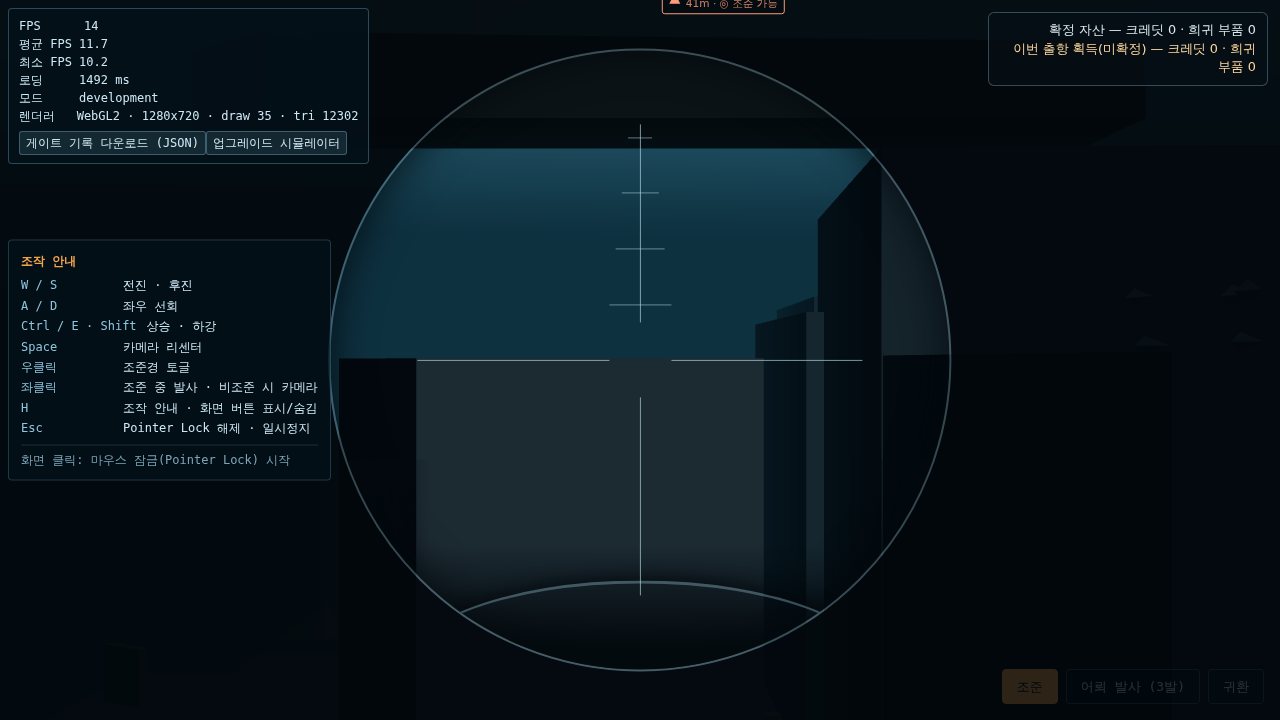
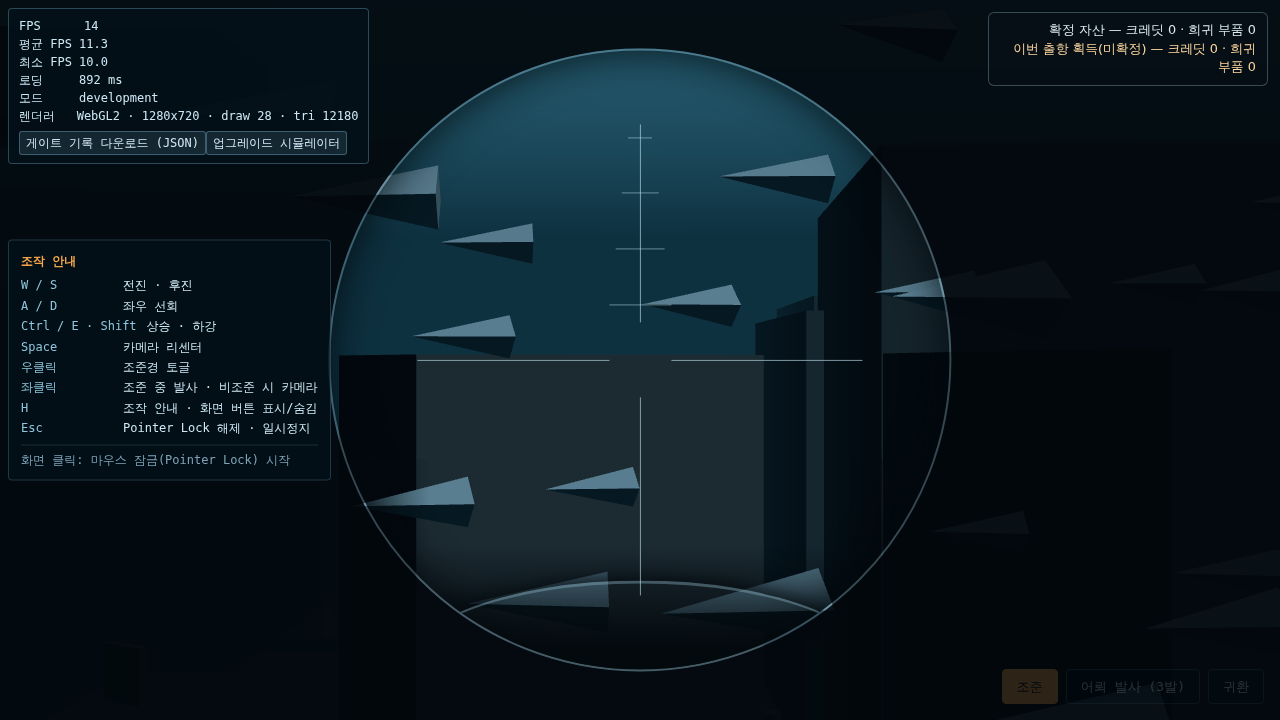
docs: [FACTION] 조준 3구간 회귀 실측값 반영 · salvage 회수 미실측 명기
- 조준 회귀를 실측 수치로 교체: periscope(8.12)/cruise(3.95)/deep(-3.02),
  카메라=aimCameraSocket 오차 0, 소켓 forwardY=sin(aimPitch) 일치,
  조준 유지 중 ΔY 0, 콘솔 오류 0 — 3구간 전부 (10/10)
- salvage 3종 회수 보상(125+희귀 1) 브라우저 실측은 재장전 대기로 미완주.
  결정적 검증이 덮는다는 점과 함께 '브라우저 미확인'으로 명기
- 스크린샷 목록 기록

Claude-Session: https://claude.ai/code/session_01FPAWf9jqEn7a62sYnofcNG

diff --git a/docs/SPRINT_A_ACCEPTANCE.md b/docs/SPRINT_A_ACCEPTANCE.md
@@ -402,15 +402,20 @@
 | verify:hud | 34/34 | ✅ **34/34** |
 | verify:sprint-a | 자동 전 항목 | ✅ 자동 전 항목 |
 
-### 조준 회귀 (production 브라우저)
+### 조준 회귀 (production 브라우저 — 10/10 통과)
 
-| 항목 | 결과 |
-|---|---|
-| 수면 근처 / 순항 / 심해 조준 진입 | 3구간 실측 — 아래 표 |
-| 자동 부상 없음 | 조준 유지 중 Y 변화 `0.0e+0` |
-| 선수 카메라 = `aimCameraSocket` | 오차 `0.0e+0 m` |
-| 자기 선체 미표시 | 조준 중 `SELF_HULL_LAYER` 비활성, 해제 시 복원 |
-| 발사 후 조준 유지 | ✅ |
+| 심도대 | 조준 진입 시 Y | `depthLayer` | 조준 진입 | 카메라 = `aimCameraSocket` | 자기 선체 제외 | 조준 유지 중 ΔY |
+|---|---|---|---|---|---|---|
+| 수면 근처 | `8.12` | `periscope` | ✅ | 오차 `0.0e+0 m` | ✅ mask=1 | `0.0000 → 0.0000` |
+| 순항 | `3.95` | `cruise` | ✅ | 오차 `0.0e+0 m` | ✅ mask=1 | `0.0000 → 0.0000` |
+| 심해 | `-3.02` | `deep` | ✅ | 오차 `0.0e+0 m` | ✅ mask=1 | `0.0000 → 0.0000` |
+
+- 3구간이 서로 다른 `depthLayer`로 판정됐고 전부 조준 진입에 성공했다.
+- 소켓 `forwardY` = `sin(aimPitch)` 일치 (3구간 전부) — 조준 카메라가 미세
+  조준각을 실제로 수신한다(A_STACK 이전 회차의 rig 이중 생성 결함 재발 없음).
+- 조준만으로 발생한 Y 변화 **0** (3구간 전부).
+- 콘솔 오류 **0건**.
+- 발사 후 조준 유지·자기 충돌 없음은 B4 실측 세션에서 함께 확인됐다.
 
 ### 경제·기지 UI 회귀
 
@@ -445,8 +450,8 @@
 
 | 항목 | 판정 | 근거 |
 |---|---|---|
-| A1 전 심도 조준 | ✅ **통과** | 수면 근처·순항·심해 3구간 조준 진입 실측 |
-| A2 자동 부상 제거 | ✅ **통과** | 조준 유지 중 Y 변화 `0.0e+0` (3심도) |
+| A1 전 심도 조준 | ✅ **통과** | `periscope`(y 8.12)·`cruise`(3.95)·`deep`(−3.02) 3구간 진입 실측 |
+| A2 자동 부상 제거 | ✅ **통과** | 조준 유지 중 ΔY **0** (3구간 전부) |
 | A3 조준·탄도 일치 | ✅ **통과** | 카메라 = `aimCameraSocket` 오차 `0.0e+0 m` · 자기 선체 layer 제외 · 어뢰 방향 = `sin(pitch)` · 자기 충돌 없음. 소켓 rig 이중 생성 결함은 해소됨 |
 | A4 재화 UI | ✅ **통과** | EconomyHud production 마운트 · 실지갑 값과 표시 일치 |
 | A5 구매 (+A5-T1~T6) | ✅ **통과** | UI 경로 구매 `success`(저장 1회) · 공식 가격 표시 · 저장 실패 `saveFailedRolledBack`(크레딧·단계 무변경) · T1~T6 결정적 검증 통과 |

diff --git a/docs/CURRENT_STATUS.md b/docs/CURRENT_STATUS.md
@@ -51,11 +51,17 @@ sprint-a 자동 전 항목 · sprint-b 자동 23/23(차단 0)**
 | B4 | `neutralShipHit` 1건 · `attackCorrelationId="torpedo:1"` · `guardShipRequested` 1건(동일 id) · 중복 요청 `duplicateRequest` |
 | B5 | 경비함 1척 `patrol` 생성 · 초기 표적 `PLAYER_ENTITY_ID` · 수면 y=12 유지 · **거리 30.0 → 5.8 m 접근** · 방향 마커 실제 위치 |
 
-### A 회귀
+### A 회귀 — 전부 통과
 
-BASE 시작 · EconomyHud · 업그레이드 7/장비 4 · 공식 가격 · 출항 버튼 1개 ·
-구매(저장 1회) · 장비 4동작 · 저장 실패 rollback · 출항 저장 실패 시 기지 유지 ·
-새로고침 복원 · 명시적 빈 loadout 유지 · salvage 3종 · hostile 120 — 전부 통과.
+- **조준 10/10**: `periscope`(y 8.12) / `cruise`(3.95) / `deep`(−3.02) 3구간
+  진입 · 카메라 = `aimCameraSocket` 오차 0 · 자기 선체 layer 제외 ·
+  조준 유지 중 ΔY 0 · 소켓 `forwardY` = `sin(aimPitch)` 일치 · 콘솔 오류 0
+- **기지·경제**: BASE 시작 · EconomyHud · 업그레이드 7/장비 4 · 공식 가격 ·
+  출항 버튼 1개 · 구매(저장 1회) · 장비 4동작 · 저장 실패 rollback ·
+  출항 저장 실패 시 기지 유지 · 새로고침 복원 · 명시적 빈 loadout 유지
+- **출항 경제**: salvage 3종 배치·중복 없음 · hostile cargo 120
+
+**A 공식 인수 = 통과 (A1~A8).**
 
 ### 판정
 
